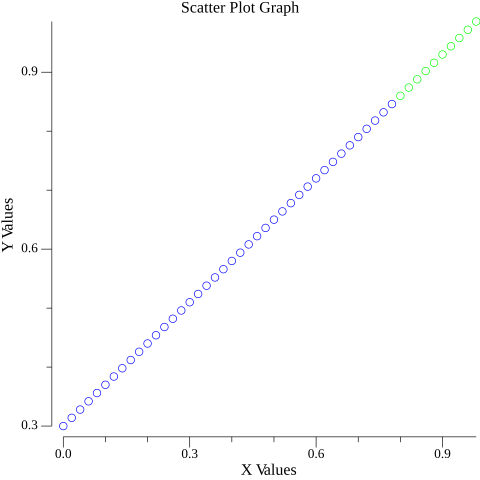
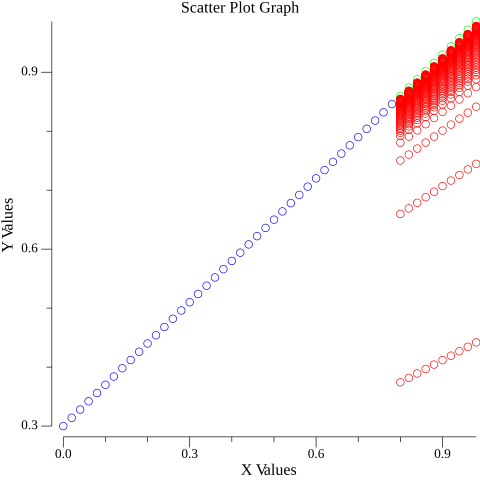
#13 add predicted data in red on graph, during training

diff --git a/pkg/neuralNetwork/neuralNetwork.go b/pkg/neuralNetwork/neuralNetwork.go
@@ -8,7 +8,7 @@ import (
 
 const (
 	lr     = 0.01
-	epochs = 2000
+	epochs = 3000
 )
 
 type neuralNetwork struct {
@@ -90,9 +90,13 @@ func Fit(xTrain []float64, yTrain []float64, xTest []float64, yTest []float64, p
 		UpdateLinearParams(p, gradM, gradC, lr)
 
 		if i%50 == 0 {
+			predictedTest := ApplyLinearEquation(xTest, p.Weight, p.Bias)
+			graph.addPoints(xTest, predictedTest, color.RGBA{255, 0, 0, 255})
 			fmt.Printf("\n Loss: %f Weight: %f Bias:%f", loss, p.Weight, p.Bias)
 		}
 
 	}
+
+	graph.saveGraph()
 
 }
